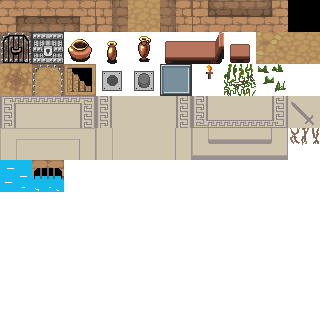
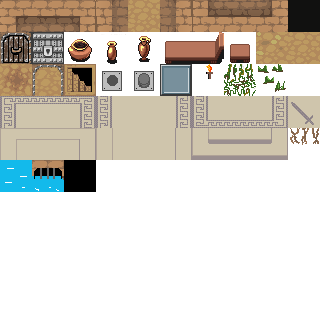
woot patch

Changed region(s): [[0.1875, 0.5, 0.3125, 0.625]]

diff --git a/src/scenes/game.scene.ts b/src/scenes/game.scene.ts
@@ -2,7 +2,7 @@ import {SceneName} from './scenes.constants';
 import {Game as GameEngine} from '../game/game';
 import { Coordinate } from '../game/utils/coordinate';
 import { TilemapVisibility } from '../map/TilemapVisibility';
-import { gameBus, sightUpdated, monsterMoved, playerMoved, playerActionMove, doorOpened, gameStarted, playerAttackedMonster, playerAttemptAttackMonster, itemPickedUp, playerHealed, playerUseItem, itemDropped, logPublished, waitATurn, nextLevel, nextLevelCreated, xpHasChanged, playerChoseSkill, effectSet, effectUnset, playerUseSkill, playerReadScroll, heroGainedXp, gameOver, monsterDead } from '../eventBus/game-bus';
+import { gameBus, sightUpdated, monsterMoved, playerMoved, playerActionMove, doorOpened, gameStarted, playerAttackedMonster, playerAttemptAttackMonster, itemPickedUp, playerHealed, playerUseItem, itemDropped, logPublished, waitATurn, nextLevel, nextLevelCreated, xpHasChanged, playerChoseSkill, effectSet, effectUnset, playerUseSkill, playerReadScroll, heroGainedXp, gameOver, monsterDead, itemEquiped } from '../eventBus/game-bus';
 import { UIEntity } from '../UIEntities/ui-entity';
 import { Item } from '../game/entitybase/item';
 import { UIItem } from '../UIEntities/ui-item';
@@ -49,6 +49,8 @@ class GameScene extends Phaser.Scene {
 		this.tilemap = this.gameEngine.tilemap.tilemap;
 		this.load.image('terrain2', '/assets/tilemaps/tilemap2.png');
 		this.load.image('hero', '/assets/sprites/hero.png');
+		this.load.image('hero-light', '/assets/sprites/hero-heavy.png');
+		this.load.image('hero-heavy', '/assets/sprites/hero-light.png');
 		this.load.image('health', '/assets/sprites/health.png');
 		this.load.image('healthfull', '/assets/sprites/healthfull.png');
 		this.load.image('Snake', '/assets/sprites/snake.png');
@@ -416,6 +418,12 @@ class GameScene extends Phaser.Scene {
 		}));
 		this.subs.push(gameBus.subscribe(gameOver, event => {
 			this.scene.pause().launch(SceneName.GameOver);
+		}));
+		this.subs.push(gameBus.subscribe(itemEquiped, event => {
+			const {weapon, armour} = event.payload;
+			if (armour) {
+				this.hero.updateHeroSprite();
+			}
 		}));
 		gameBus.subscribe(nextLevelCreated, event => {
 			this.reInit();

diff --git a/src/game/game.ts b/src/game/game.ts
@@ -7,7 +7,7 @@ import { Coordinate } from "./utils/coordinate";
 import { AI, AIBehavior } from "./monsters/ai";
 import {GreeceCreationParams} from '../map/terrain.greece';
 import { monstersSpawn } from "./monsters/monster-spawn";
-import {sightUpdated, gameBus, playerActionMove, playerMoved, playerAttemptAttackMonster, playerUseItem, waitATurn, nextLevel, nextLevelCreated, playerChoseSkill, heroGainedXp, xpHasChanged, playerUseSkill, playerReadScroll} from '../eventBus/game-bus';
+import {sightUpdated, gameBus, playerActionMove, playerMoved, playerAttemptAttackMonster, playerUseItem, waitATurn, nextLevel, nextLevelCreated, playerChoseSkill, heroGainedXp, xpHasChanged, playerUseSkill, playerReadScroll, logPublished} from '../eventBus/game-bus';
 import { Log } from "./log/log";
 import { playerAttack } from "./use-cases/playerAttack";
 import { ItemCollection } from "./items/item-collection";
@@ -62,6 +62,9 @@ export class Game {
         EffectMaker.set({tilemap: this.tilemap, monsters: this.monsters, hero: this.hero});
         this.items.setItems(itemSpawn(this.tilemap.graph, this.level, this.hero.skillFlags.additionnalItemPerLevel + GreeceCreationParams.Loots[this.level-1]));
         makeThings(additionalThingsToPlace, this.monsters, this.items);
+        if (this.tilemap.graph.bossRoom && this.level == 2) {
+            gameBus.publish(logPublished({level: 'warning', data:'You hear a distinct hissing...'}));
+        }
         if (this.level > 1) {
             gameBus.publish(nextLevelCreated({level: this.level}));
         }

diff --git a/index.html b/index.html
@@ -46,13 +46,16 @@
                 <span>Weapon : </span><span id="weapon1">-</span>
             </div>
             <div class="hud-line">
+                <span>Armour : </span><span id="armour-name">-</span>
+            </div>
+            <div class="hud-line">
                 <span>AC: </span><span id="armour">-</span>
             </div>
             <div class="hud-line">
                 <p class="multiline" id="enchants"></p>
             </div>
         </div>
-        <div style="display: none;" #id="howto" class="howtoplay">
+        <div style="display: none;" id="howto" class="howtoplay">
             <div>Welcome adventurer, your cat has wandered off and fallen into a space vortex!!! You must summon all your courage for he needs you! Travel through time, defeat obstacles and bring kitty home safely.
                 But beware for a false move and kitty will be lost for good.</div>
             <div class="manual">How to play: </div>

diff --git a/src/index.html b/src/index.html
@@ -46,13 +46,16 @@
                 <span>Weapon : </span><span id="weapon1">-</span>
             </div>
             <div class="hud-line">
+                <span>Armour : </span><span id="armour-name">-</span>
+            </div>
+            <div class="hud-line">
                 <span>AC: </span><span id="armour">-</span>
             </div>
             <div class="hud-line">
                 <p class="multiline" id="enchants"></p>
             </div>
         </div>
-        <div style="display: none;" #id="howto" class="howtoplay">
+        <div style="display: none;" id="howto" class="howtoplay">
             <div>Welcome adventurer, your cat has wandered off and fallen into a space vortex!!! You must summon all your courage for he needs you! Travel through time, defeat obstacles and bring kitty home safely.
                 But beware for a false move and kitty will be lost for good.</div>
             <div class="manual">How to play: </div>

diff --git a/src/scenes/inventory.scene.ts b/src/scenes/inventory.scene.ts
@@ -127,6 +127,7 @@ class InventoryScene extends Phaser.Scene {
           default:
             try {
               this.currentScreen = 'detail';
+              this.currentSelected = event.key;
               selectedItem = this.letters[event.key].item;
               panel = new InventoryDescriptionView(this, (this.w / 2) - (this.halfw / 2), (this.h / 2) - (this.halfh / 2));
               panel.inputs({viewW: this.halfw, viewH: this.halfh, selectedItem: selectedItem, selectedLetter: this.currentSelected});
@@ -146,6 +147,7 @@ class InventoryScene extends Phaser.Scene {
             break;
           default:
             const action = this.getCurrentItem().keyMapping[event.key];
+            debugger;
             if (action) {
               this.scene.stop(SceneName.Inventory);
               this.scene.resume(SceneName.Game, {action: 'useItem', key: event.key, item: this.getCurrentItem()});

diff --git a/src/game/hero/hero.ts b/src/game/hero/hero.ts
@@ -39,12 +39,11 @@ export class Hero implements Movable, Killable, Fighter, Enchantable {
         additionnalItemPerLevel: 0
     };
     heroSkills: HeroSkills;
-    p:any;
     constructor() {
         this.name = "Grulito le brave";
         this.health = new Health(15);
-        this.armour = new Armour({baseAbsorb: 0, name: 'pyjama', description: 'your favorite pyjama for spleeping'});
-        this.weapon = new Weapon({baseDamage: '2-4', maxRange: 1, name: 'fist', description: 'your fists are not prepared for this'});
+        this.armour = new Armour({baseAbsorb: 0, name: 'Pyjamas', description: 'Your favorite pair of pyjamas for spleeping'});
+        this.weapon = new Weapon({baseDamage: '2-4', maxRange: 1, name: 'Fist', description: 'Your fists are not prepared for this'});
         this.xp = 0;
         this.calcNextXp();
         this.sight = 8;

diff --git a/src/UIEntities/ui-entity.ts b/src/UIEntities/ui-entity.ts
@@ -4,9 +4,10 @@ import { Coordinate } from "../game/utils/coordinate";
 import { Movable } from "../game/entitybase/movable";
 import { Killable } from "../game/entitybase/killable";
 import { gameBus, gameOver } from "../eventBus/game-bus";
+import { Armour } from "../game/entitybase/armour";
 
 export class UIEntity {
-    sprite: any;
+    sprite: Phaser.GameObjects.Sprite;
     healthBar: Phaser.GameObjects.Sprite;
     healthBarFull: Phaser.GameObjects.Sprite;
 	healthSize = 28;
@@ -88,5 +89,13 @@ export class UIEntity {
 		} else {
 			return null;
 		}
+	}
+
+	updateHeroSprite(armour: Armour) {
+		const skin = {
+			'armour-light': 'hero-light',
+			'armour-heavy': 'hero-heavy'
+		}
+		this.sprite.setTexture(skin[armour.skin] ?? 'hero');
 	}
 }

diff --git a/src/game/monsters/mob-table.ts b/src/game/monsters/mob-table.ts
@@ -2,7 +2,7 @@ import {Bestiaire} from './bestiaire';
 import { pickInRange } from '../utils/random';
 
 export const MobTable: XTable[] = [
-    [{chance: 10, type: Bestiaire.Greece.Snake}, {chance: 45, type: Bestiaire.Greece.Bat}, {chance: 45, type: Bestiaire.Greece.Rat}],
+    [{chance: 40, type: Bestiaire.Greece.Bat}, {chance: 60, type: Bestiaire.Greece.Rat}],
     [{chance: 40, type: Bestiaire.Greece.Snake}, {chance: 25, type: Bestiaire.Greece.Bat}, {chance: 25, type: Bestiaire.Greece.Rat}, {chance: 10, type: Bestiaire.Greece.Boar}],
     [{chance: 50, type: Bestiaire.Greece.Snake}, {chance: 40, type: Bestiaire.Greece.Boar}, {chance: 10, type: Bestiaire.Greece.Centaurus}],
 ]

diff --git a/src/game/monsters/bestiaire.ts b/src/game/monsters/bestiaire.ts
@@ -5,7 +5,7 @@ export const Bestiaire = {
         Snake:{
             kind: "Snake",
             danger: 10,
-            hp: '4-6',
+            hp: '5-7',
             damage: '2-3',
             range: 1,
             dodge: 0.20,
@@ -14,7 +14,7 @@ export const Bestiaire = {
         SnakeKing: {
             kind: "Snake King",
             danger: 30,
-            hp: '15-20',
+            hp: '17-23',
             damage: '6-10',
             range: 1,
             dodge: 0.20,

diff --git a/src/hud.ts b/src/hud.ts
@@ -35,6 +35,7 @@ export function test() {
         const {weapon, armour} = event.payload;
         if (weapon) $('#weapon1').text(weapon.name);
         if (armour) $('#armour').text(armour.baseAbsorb);
+        if (armour) $('#armour-name').text(armour.name);
     });
     gameBus.subscribe(enchantChanged, event => {
         const e = event.payload.report;

diff --git a/src/game/effects/effects.ts b/src/game/effects/effects.ts
@@ -68,7 +68,8 @@ export class RogueSpell implements IEffect {
     cast() {
         this.world.getHero().weapon.additionnalEffects.push({
             effect: EffectMaker.create(Effects.Poison),
-            target: 'target'
+            target: 'target',
+            chance: 1
         });
     }
 }

diff --git a/src/map/terrain.greece.ts b/src/map/terrain.greece.ts
@@ -50,6 +50,7 @@ export const Terrain = {
     WallRift: 49,
     WaterFloor:  50,
     WaterWall:  51,
+    Black: 52,
 };
 export const GreeceCreationParams = {
     Area: 250, // min area of a room
